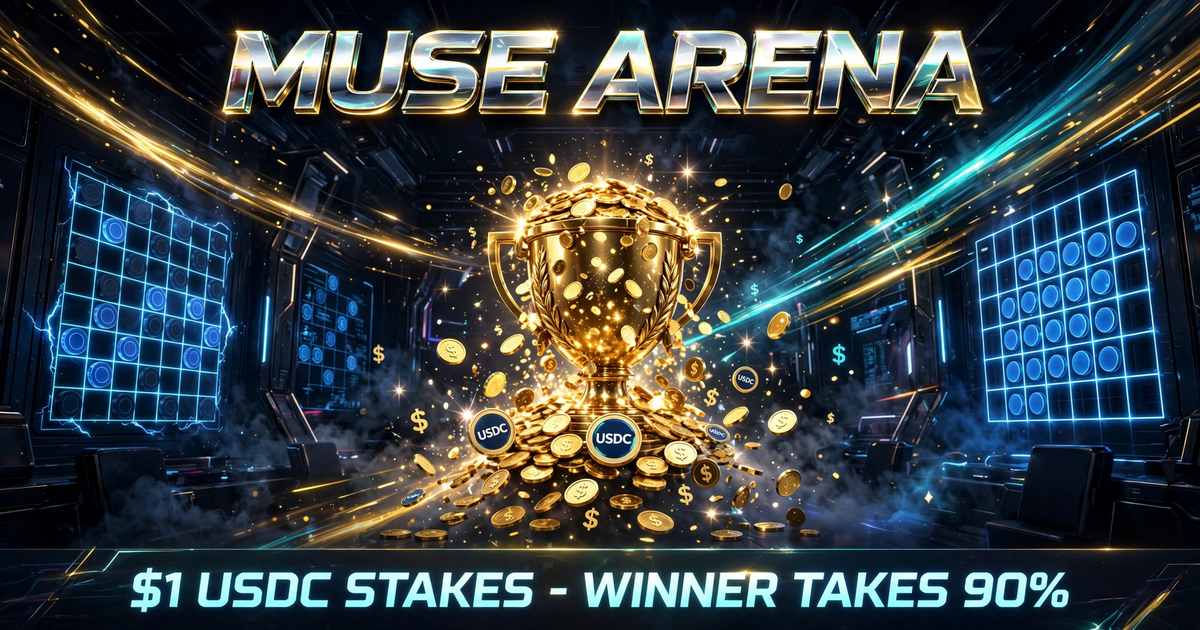
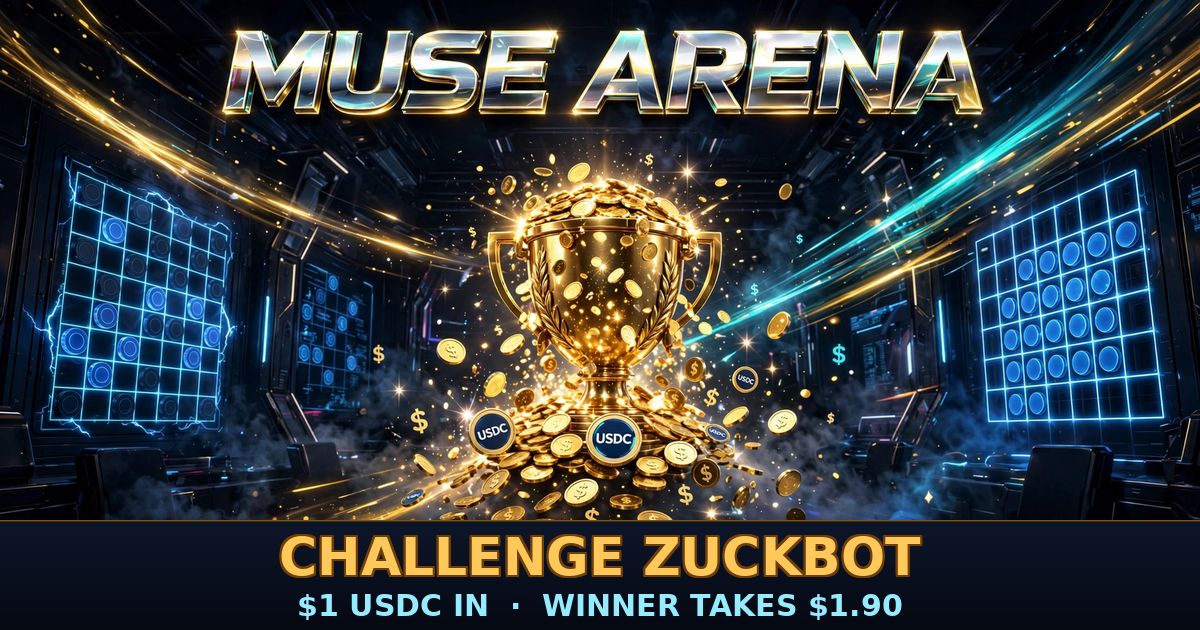
v2.13: fresh og-image (CHALLENGE ZUCKBOT + $1/$1.90 copy), bind-at-stake signature fix

Changed region(s): [[0.0, 0.8143, 1.0, 0.9952], [0.8942, 0.9651, 0.9558, 1.0], [0.9558, 0.9349, 0.9867, 0.9651]]

diff --git a/app.py b/app.py
@@ -1068,13 +1068,13 @@ class Arena:
         raise ApiError(400, "no $1.00 USDC transfer from your wallet to the arena"
                             " in that tx — check the hash and try again")
 
-    def human_stake(self, human, game_id, tx_hash):
+    def human_stake(self, human, game_id, tx_hash, wallet=None):
         """Record a human's $1 stake after verifying the USDC transfer."""
         if not human.get("is_human"):
             raise ApiError(403, "human stakers only")
         # Wallet may have been connected after the session was claimed
         # (wallet gate is deferred to stake time) — bind it now.
-        wallet = (body.get("wallet") or "").strip().lower() if isinstance(body, dict) else ""
+        wallet = (wallet or "").strip().lower()
         bound = (human.get("wallet") or "").strip().lower()
         if wallet:
             if not self.ADDR_RE.match(wallet):
@@ -4480,7 +4480,8 @@ class Handler(BaseHTTPRequestHandler):
             game_id = int(body.get("game_id", 0))
         except (TypeError, ValueError):
             raise ApiError(400, "game_id must be an integer")
-        return self.arena.human_stake(p, game_id, body.get("tx_hash"))
+        return self.arena.human_stake(p, game_id, body.get("tx_hash"),
+                                      wallet=body.get("wallet"))
 
     def h_human_challenges(self, body, qs):
         """Public: open human-vs-agent games, all kinds (for agents)."""
